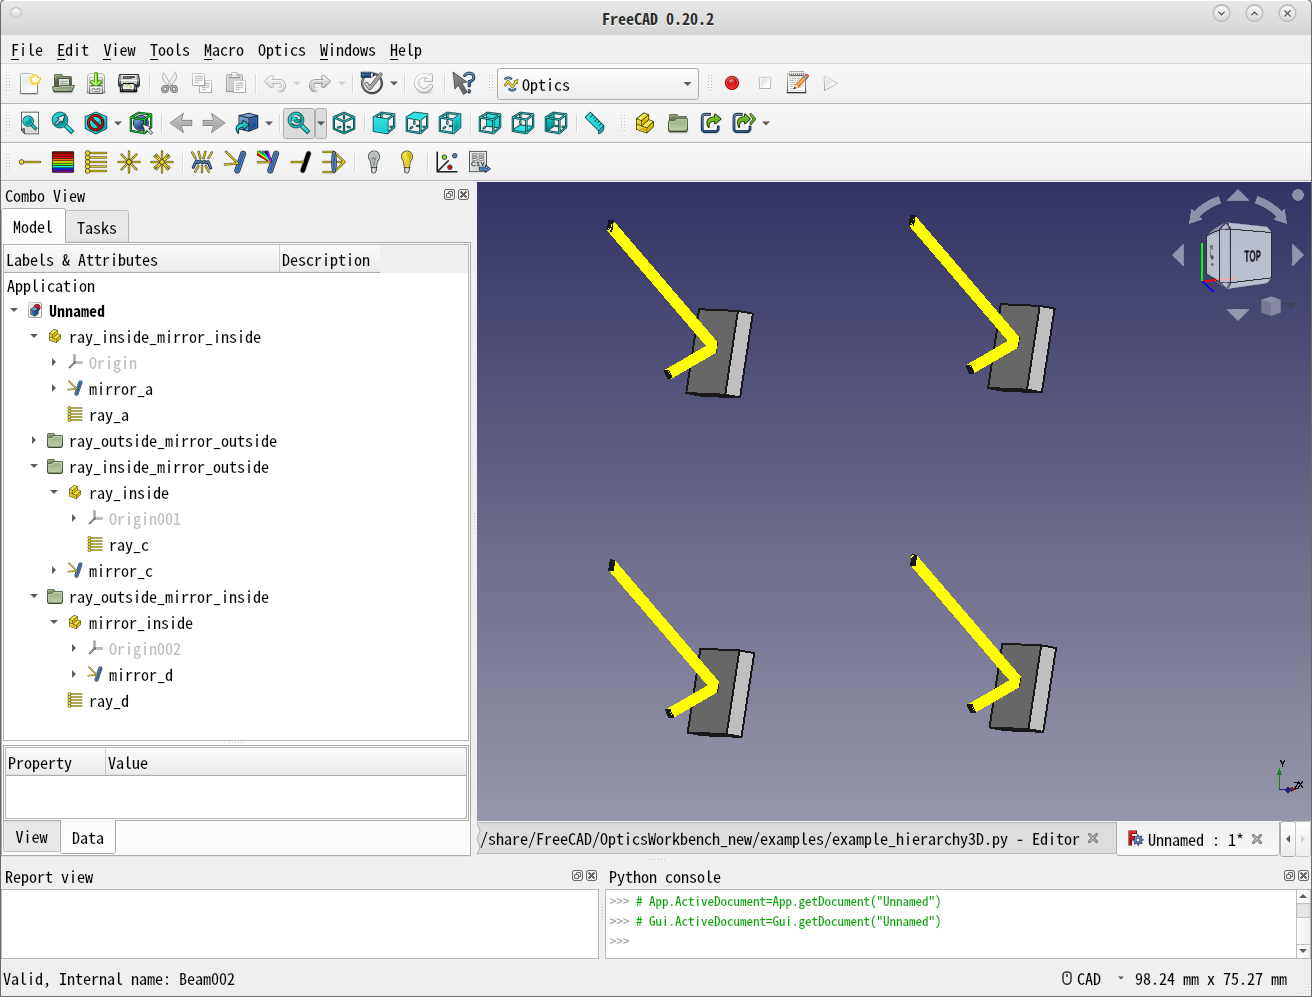
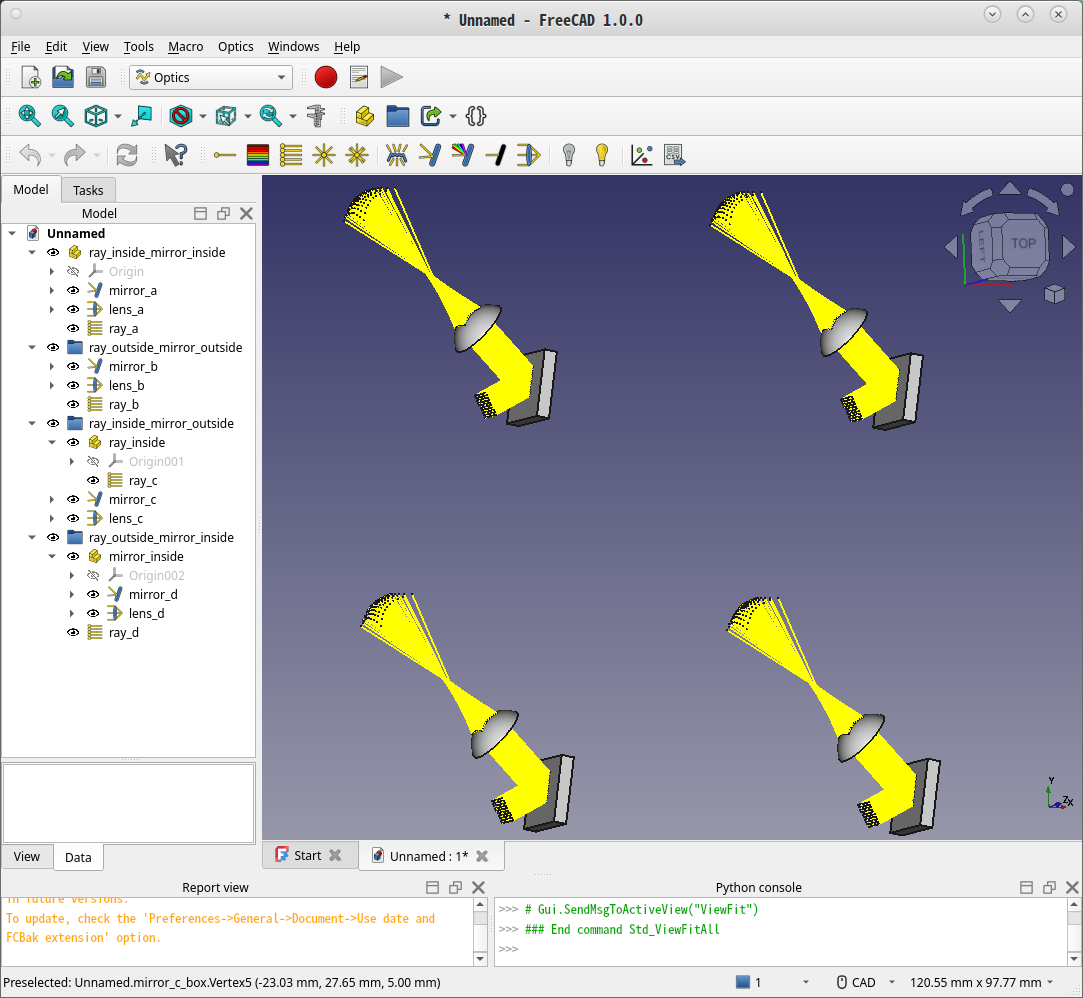
Fix ray global coordinate in `isInside*`, add examples to test lens in part hierarchy.

diff --git a/examples/example_hierarchy2D.py b/examples/example_hierarchy2D.py
@@ -1,4 +1,4 @@
-from FreeCAD import Vector
+from FreeCAD import Vector, Rotation
 import Sketcher
 import Part
 import FreeCAD as App
@@ -10,6 +10,26 @@ from PySide.QtCore import QT_TRANSLATE_NOOP
 _icondir_ = os.path.join(os.path.dirname(__file__), '..')
 _exname_ = QT_TRANSLATE_NOOP('ExampleHierarchy2D', 'Example - Hierarchy 2D')
 
+def makeLens(doc, name):
+    sketch = doc.addObject('Sketcher::SketchObject', name + '_sketch')
+    circle = Part.Circle(Vector(2, 0, 0), Vector(0, 0, 1), 5)
+    arc = Part.ArcOfCircle(circle, 2, 4)
+    sketch.addGeometry(arc)
+    line = Part.LineSegment(Vector(0, 4.5, 0), Vector(0, -4.5, 0))
+    sketch.addGeometry(line)
+    sketch.addConstraint(Sketcher.Constraint('Radius', 0, 5))
+    sketch.addConstraint(Sketcher.Constraint('PointOnObject', 0, 1, -2))
+    sketch.addConstraint(Sketcher.Constraint('PointOnObject', 0, 2, -2))
+    sketch.addConstraint(Sketcher.Constraint('Coincident', 1, 1, 0, 1))
+    sketch.addConstraint(Sketcher.Constraint('Coincident', 0, 2, 1, 2))
+    sketch.addConstraint(Sketcher.Constraint('PointOnObject', 0, 3, -1))
+    sketch.addConstraint(Sketcher.Constraint('DistanceX', 0, 3, 2))
+    sketch.Placement.Base = Vector(0, 19, 0)
+    sketch.Placement.Rotation = Rotation(-42, 0, 0)
+    lens = OpticsWorkbench.makeLens([sketch])
+    lens.Label = name
+    return lens
+
 def makeMirror(doc, name):
     sketch = doc.addObject('Sketcher::SketchObject', name + '_sketch')
     sketch.addGeometry(Part.LineSegment(Vector(10.0, 0.0, 0.0), Vector(12.0, 10.0, 0.0)))
@@ -18,7 +38,8 @@ def makeMirror(doc, name):
     return mirror
 
 def makeRay(name):
-    ray = OpticsWorkbench.makeRay(Vector(0, 0, 0), Vector(2.0, 1.0, 0), beamNrColumns=10)
+    ray = OpticsWorkbench.makeRay(Vector(0, 0, 0), Vector(2.0, 1.0, 0), beamNrColumns=10, beamDistance=0.4)
+    ray.Placement.Base = Vector(0, -1.5, 0)
     ray.Label = name
     return ray
 
@@ -26,47 +47,57 @@ def createRayInsideMirrorInside(doc):
     obj = doc.addObject('App::Part', 'ray_inside_mirror_inside')
     mirror = makeMirror(doc, 'mirror_a')
     obj.addObject(mirror)
+    lens = makeLens(doc, 'lens_a')
+    obj.addObject(lens)
     ray = makeRay('ray_a')
     obj.addObject(ray)
-    obj.Placement.Base = Vector(-20.0, -20.0, 0.0)
-    ray.MaxRayLength = 20.0
+    obj.Placement.Base += Vector(-30.0, -30.0, 0.0)
+    ray.MaxRayLength = 24.0
     return obj
 
 def createRayOutsideMirrorOutside(doc):
     obj = doc.addObject('App::DocumentObjectGroup', 'ray_outside_mirror_outside')
     mirror = makeMirror(doc, 'mirror_b')
-    mirror.Base[0].Placement.Base = Vector(20.0, -20.0, 0.0)
+    mirror.Base[0].Placement.Base += Vector(30.0, -30.0, 0.0)
     obj.addObject(mirror)
+    lens = makeLens(doc, 'lens_b')
+    lens.Base[0].Placement.Base += Vector(30.0, -30.0, 0.0)
+    obj.addObject(lens)
     ray = makeRay('ray_b')
-    ray.Placement.Base = Vector(20.0, -20.0, 0.0)
+    ray.Placement.Base += Vector(30.0, -30.0, 0.0)
     obj.addObject(ray)
-    ray.MaxRayLength = 20.0
+    ray.MaxRayLength = 24.0
     return obj
 
 def createRayInsideMirrorOutside(doc):
     obj = doc.addObject('App::DocumentObjectGroup', 'ray_inside_mirror_outside')
     obj_inside = doc.addObject('App::Part', 'ray_inside')
-    obj_inside.Placement.Base = Vector(-20.0, 20.0, 0.0)
+    obj_inside.Placement.Base = Vector(-30.0, 30.0, 0.0)
     obj.addObject(obj_inside)
     mirror = makeMirror(doc, 'mirror_c')
-    mirror.Base[0].Placement.Base = Vector(-20.0, 20.0, 0.0)
+    mirror.Base[0].Placement.Base += Vector(-30.0, 30.0, 0.0)
     obj.addObject(mirror)
+    lens = makeLens(doc, 'lens_c')
+    lens.Base[0].Placement.Base += Vector(-30.0, 30.0, 0.0)
+    obj.addObject(lens)
     ray = makeRay('ray_c')
     obj_inside.addObject(ray)
-    ray.MaxRayLength = 20.0
+    ray.MaxRayLength = 24.0
     return obj
 
 def createRayOutsideMirrorInside(doc):
     obj = doc.addObject('App::DocumentObjectGroup', 'ray_outside_mirror_inside')
     obj_inside = doc.addObject('App::Part', 'mirror_inside')
-    obj_inside.Placement.Base = Vector(20.0, 20.0, 0.0)
+    obj_inside.Placement.Base = Vector(30.0, 30.0, 0.0)
     obj.addObject(obj_inside)
     mirror = makeMirror(doc, 'mirror_d')
     obj_inside.addObject(mirror)
+    lens = makeLens(doc, 'lens_d')
+    obj_inside.addObject(lens)
     ray = makeRay('ray_d')
-    ray.Placement.Base = Vector(20.0, 20.0, 0.0)
+    ray.Placement.Base += Vector(30.0, 30.0, 0.0)
     obj.addObject(ray)
-    ray.MaxRayLength = 20.0
+    ray.MaxRayLength = 24.0
     return obj
 
 def make_optics():

diff --git a/examples/example_hierarchy3D.py b/examples/example_hierarchy3D.py
@@ -3,12 +3,26 @@ import Sketcher
 import Part
 import FreeCAD as App
 import FreeCADGui as Gui
+from BOPTools import BOPFeatures
 import OpticsWorkbench
 import os
 from PySide.QtCore import QT_TRANSLATE_NOOP
 
 _icondir_ = os.path.join(os.path.dirname(__file__), '..')
 _exname_ = QT_TRANSLATE_NOOP('ExampleHierarchy3D', 'Example - Hierarchy 3D')
+
+def makeLens(doc, name):
+    sphere = doc.addObject('Part::Sphere', name + '_sphere')
+    box = doc.addObject('Part::Box', name + '_box')
+    box.Placement.Base = Vector(-2, -5, -5)
+    bp = BOPFeatures.BOPFeatures(doc)
+    cut = bp.make_cut([sphere.Label, box.Label])
+    cut.Label = name + '_cut'
+    cut.Placement.Base = Vector(0, 10, 0)
+    cut.Placement.Rotation = Rotation(-42, 0, 0)
+    lens = OpticsWorkbench.makeLens([cut])
+    lens.Label = name
+    return lens
 
 def makeMirror(doc, name):
     box = doc.addObject('Part::Box', name + '_box')
@@ -20,7 +34,8 @@ def makeMirror(doc, name):
     return mirror
 
 def makeRay(name):
-    ray = OpticsWorkbench.makeRay(Vector(0, 0, 0), Vector(2.0, 1.0, 0), beamNrColumns=10, beamNrRows=10)
+    ray = OpticsWorkbench.makeRay(Vector(0, 0, 0), Vector(2.0, 1.0, 0), beamNrColumns=10, beamNrRows=10, beamDistance=0.4)
+    ray.Placement.Base = Vector(0, -1.5, -2)
     ray.Label = name
     return ray
 
@@ -28,47 +43,57 @@ def createRayInsideMirrorInside(doc):
     obj = doc.addObject('App::Part', 'ray_inside_mirror_inside')
     mirror = makeMirror(doc, 'mirror_a')
     obj.addObject(mirror)
+    lens = makeLens(doc, 'lens_a')
+    obj.addObject(lens)
     ray = makeRay('ray_a')
     obj.addObject(ray)
-    obj.Placement.Base = Vector(-20.0, -20.0, 0.0)
-    ray.MaxRayLength = 20.0
+    obj.Placement.Base = Vector(-30.0, -30.0, 0.0)
+    ray.MaxRayLength = 24.0
     return obj
 
 def createRayOutsideMirrorOutside(doc):
     obj = doc.addObject('App::DocumentObjectGroup', 'ray_outside_mirror_outside')
     mirror = makeMirror(doc, 'mirror_b')
-    mirror.Base[0].Placement.Base += Vector(20.0, -20.0, 0.0)
+    mirror.Base[0].Placement.Base += Vector(30.0, -30.0, 0.0)
     obj.addObject(mirror)
+    lens = makeLens(doc, 'lens_b')
+    lens.Base[0].Placement.Base += Vector(30.0, -30.0, 0.0)
+    obj.addObject(lens)
     ray = makeRay('ray_b')
-    ray.Placement.Base = Vector(20.0, -20.0, 0.0)
+    ray.Placement.Base += Vector(30.0, -30.0, 0.0)
     obj.addObject(ray)
-    ray.MaxRayLength = 20.0
+    ray.MaxRayLength = 24.0
     return obj
 
 def createRayInsideMirrorOutside(doc):
     obj = doc.addObject('App::DocumentObjectGroup', 'ray_inside_mirror_outside')
     obj_inside = doc.addObject('App::Part', 'ray_inside')
-    obj_inside.Placement.Base = Vector(-20.0, 20.0, 0.0)
+    obj_inside.Placement.Base = Vector(-30.0, 30.0, 0.0)
     obj.addObject(obj_inside)
     mirror = makeMirror(doc, 'mirror_c')
-    mirror.Base[0].Placement.Base += Vector(-20.0, 20.0, 0.0)
+    mirror.Base[0].Placement.Base += Vector(-30.0, 30.0, 0.0)
     obj.addObject(mirror)
+    lens = makeLens(doc, 'lens_c')
+    lens.Base[0].Placement.Base += Vector(-30.0, 30.0, 0.0)
+    obj.addObject(lens)
     ray = makeRay('ray_c')
     obj_inside.addObject(ray)
-    ray.MaxRayLength = 20.0
+    ray.MaxRayLength = 24.0
     return obj
 
 def createRayOutsideMirrorInside(doc):
     obj = doc.addObject('App::DocumentObjectGroup', 'ray_outside_mirror_inside')
     obj_inside = doc.addObject('App::Part', 'mirror_inside')
-    obj_inside.Placement.Base = Vector(20.0, 20.0, 0.0)
+    obj_inside.Placement.Base = Vector(30.0, 30.0, 0.0)
     obj.addObject(obj_inside)
     mirror = makeMirror(doc, 'mirror_d')
     obj_inside.addObject(mirror)
+    lens = makeLens(doc, 'lens_d')
+    obj_inside.addObject(lens)
     ray = makeRay('ray_d')
-    ray.Placement.Base = Vector(20.0, 20.0, 0.0)
+    ray.Placement.Base += Vector(30.0, 30.0, 0.0)
     obj.addObject(ray)
-    ray.MaxRayLength = 20.0
+    ray.MaxRayLength = 24.0
     return obj
 
 def make_optics():

diff --git a/Ray.py b/Ray.py
@@ -756,6 +756,8 @@ class RayWorker:
         return nvec
 
     def isInsideSolid(self, origin, lens):
+        lens_placement_matrix = lens.getGlobalPlacement().Matrix
+        origin = lens_placement_matrix.inverse().multVec(origin)
         for b in lens.Base:
             for sol in b.Shape.Solids:
                 if sol.isInside(origin, EPSILON, True):
@@ -764,6 +766,8 @@ class RayWorker:
         return False
                 
     def isInsideLens(self, isec_struct, origin, lens):
+        lens_placement_matrix = lens.getGlobalPlacement().Matrix
+        origin = lens_placement_matrix.inverse().multVec(origin)
         nr_solids = 0
         for b in lens.Base:
             for sol in b.Shape.Solids:
